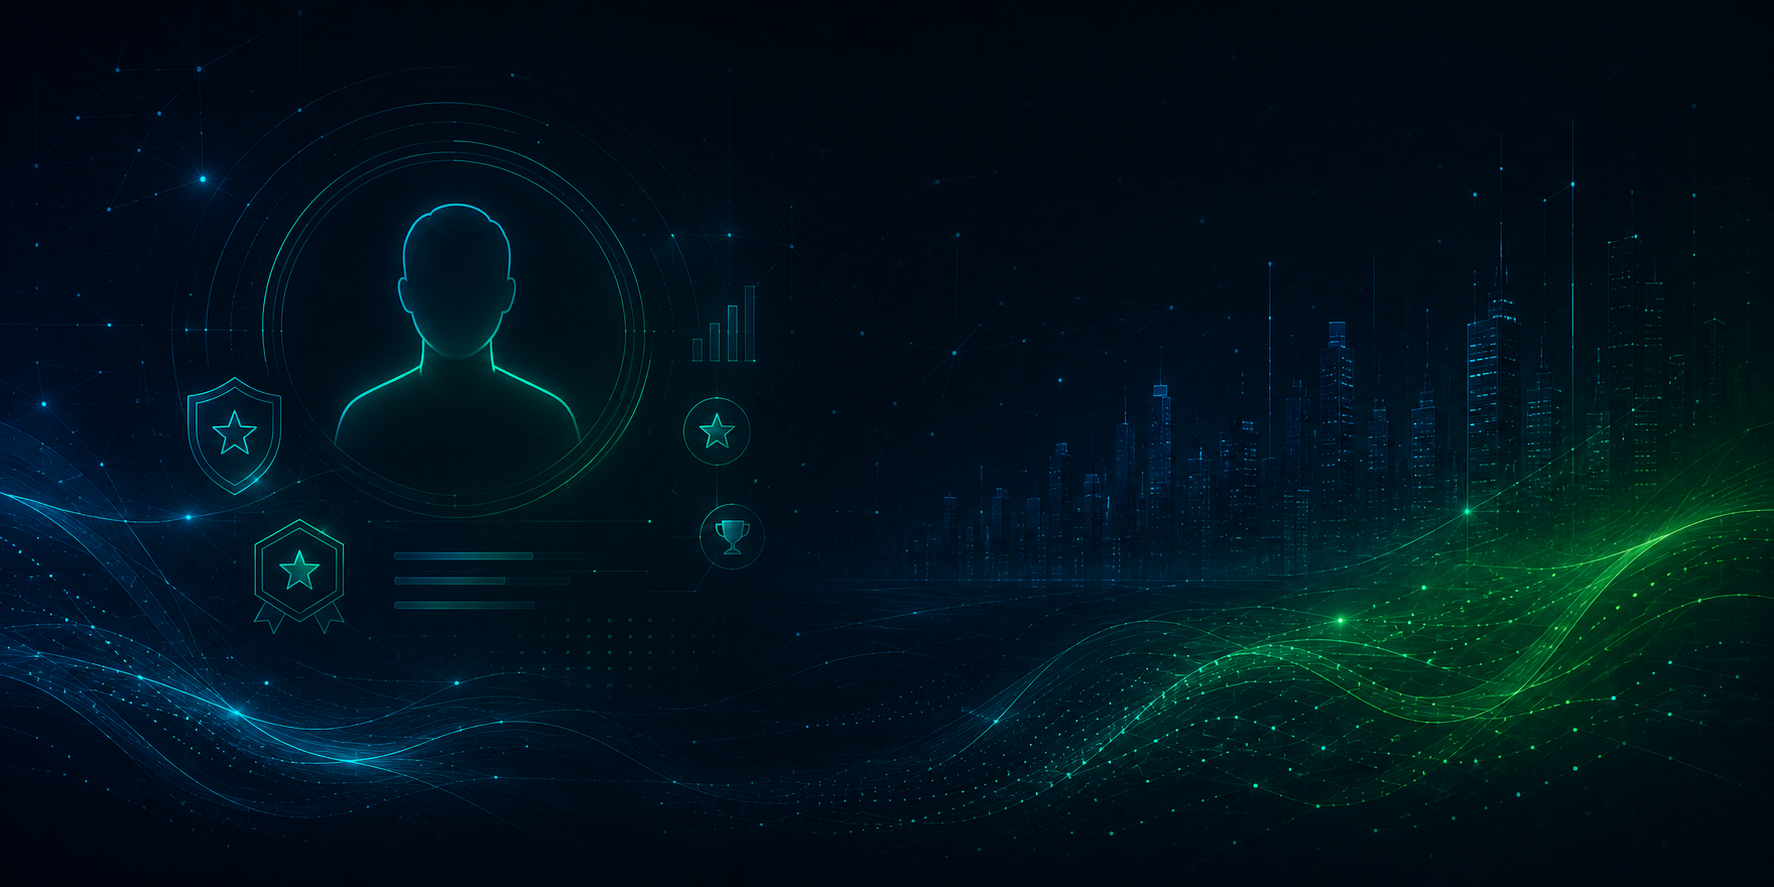
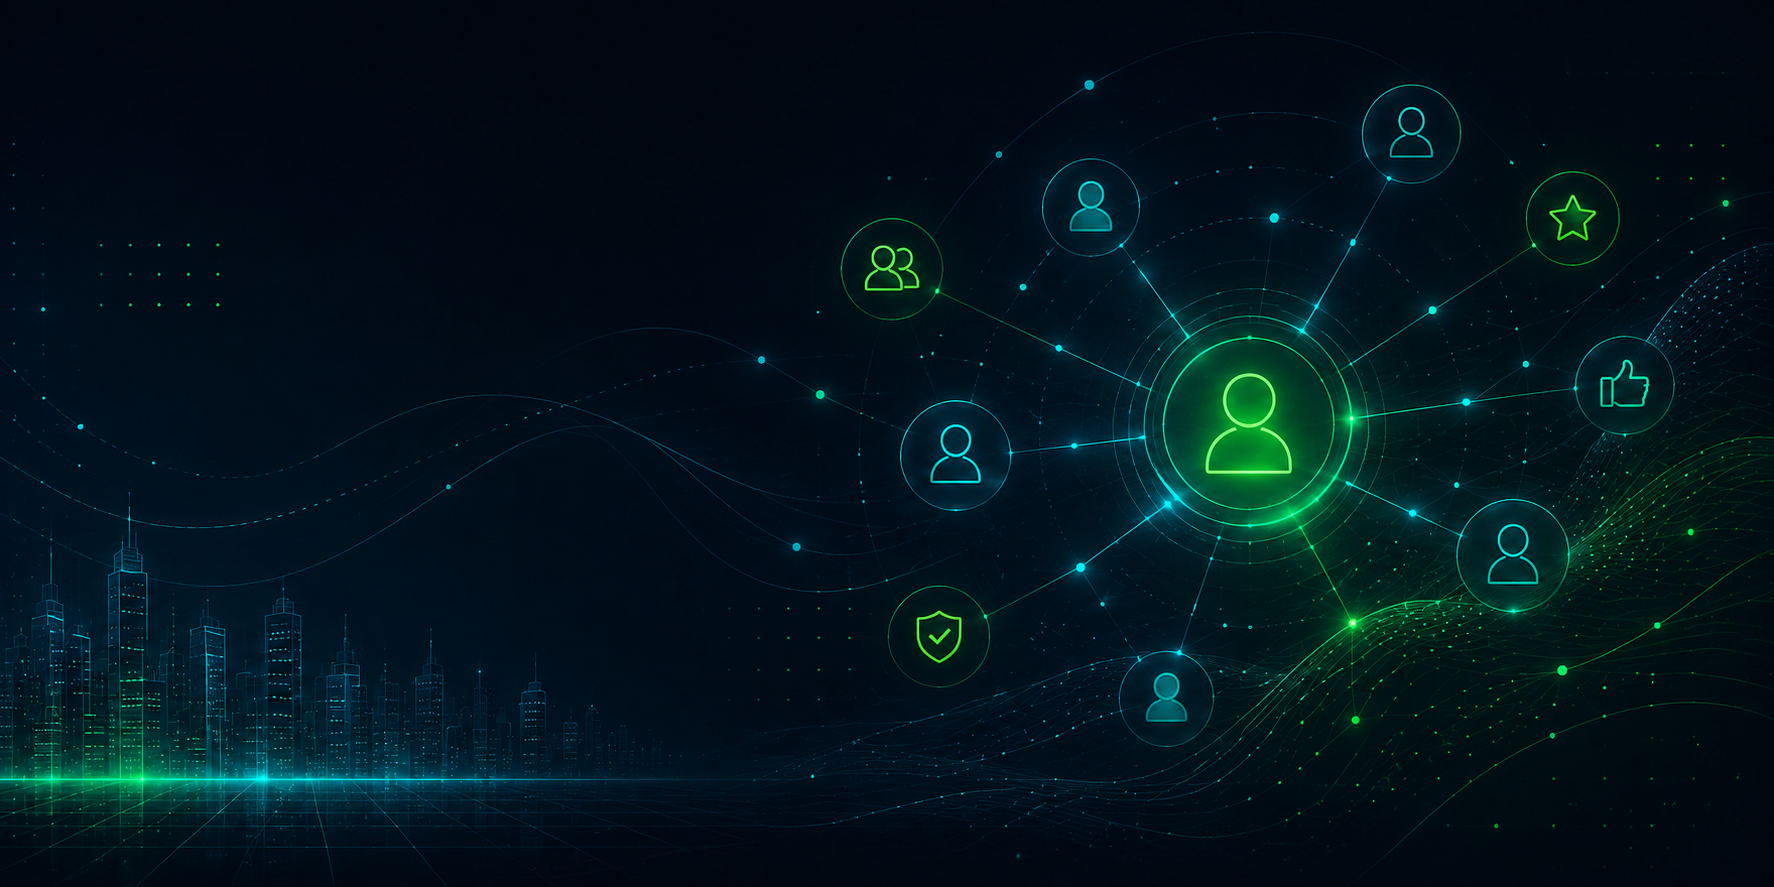
Update website background images for profile, wallet, and main pages
Modify `landing.tsx` to use `/images/backgrounds/bg-main.png` as the hero banner src and update background images for profile and wallet pages.

Replit-Commit-Author: Agent
Replit-Commit-Session-Id: 04fb5e7f-7b24-48cd-abcc-22057c9f5d5b
Replit-Commit-Checkpoint-Type: full_checkpoint
Replit-Commit-Event-Id: 85e0ac36-5b36-4d3d-8a1e-b65d39521202
Replit-Commit-Screenshot-Url: https://storage.googleapis.com/screenshot-production-us-central1/b1b35d7a-38a0-4fdd-9b3c-5b6a58ef29bb/04fb5e7f-7b24-48cd-abcc-22057c9f5d5b/SDY8wBC
Replit-Helium-Checkpoint-Created: true

diff --git a/artifacts/extrag0/src/pages/landing.tsx b/artifacts/extrag0/src/pages/landing.tsx
@@ -313,7 +313,7 @@ export default function LandingPage() {
               initial={{ opacity: 0, scale: 1.04 }}
               animate={{ opacity: 1, scale: 1 }}
               transition={{ duration: 1.1, ease: [0.19, 1, 0.22, 1] }}
-              src={heroBanner}
+              src="/images/backgrounds/bg-main.png"
               alt="extraGO Platform"
               className="w-full object-cover hero-banner-glow"
               style={{ maxHeight: "340px", objectPosition: "center" }}